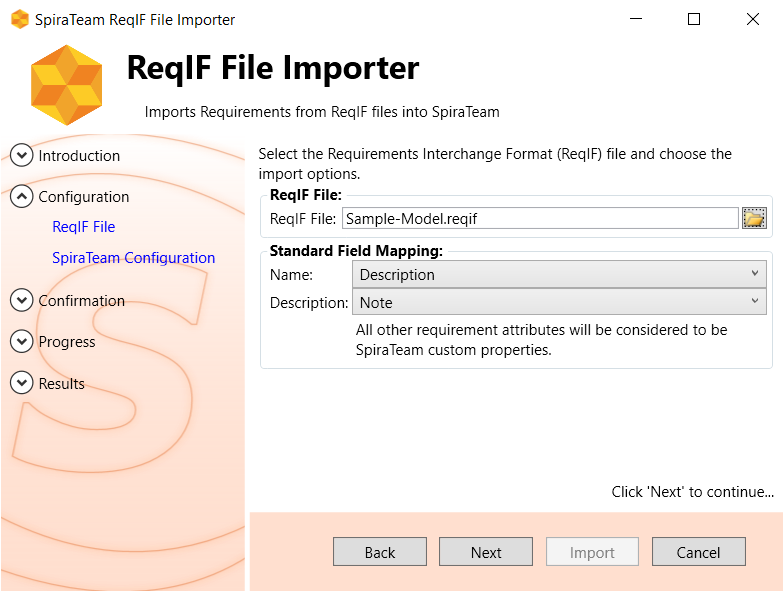
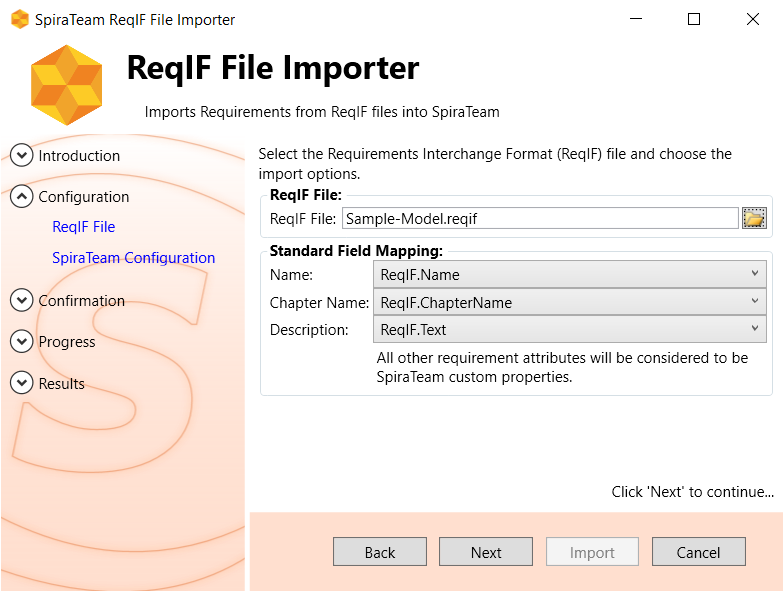
update ReqIF importer documentation to specify mappings better

Changed region(s): [[0.3367, 0.4561, 0.9796, 0.6689]]

diff --git a/docs/Requirements-Management-Integration/Importing-From-ReqIF-Files.md b/docs/Requirements-Management-Integration/Importing-From-ReqIF-Files.md
@@ -39,6 +39,13 @@ want to use for importing.
 model to map to the Name and Description fields in SpiraTeam. Any
 other fields will be imported as custom properties.**
 
+The field mappings will depend on the tool you are importing from. The default values are:
+- **Name:** ReqIf.Name
+- **Chapter Name:** ReqIf.ChapterName
+- **Description:** ReqIf.Text
+
+*See the appendix for how Rational DOORS and Rational Requirements Composer ReqIF Files Work*
+
 Once the file is selected, and the name/description attributes mapped,
 click *Next* to continue to the screen where
 you enter your SpiraTeam project information:
@@ -100,3 +107,34 @@ In addition, the importer will create the necessary custom properties as needed 
 ![](img/ReqIF-9.png)
 
 If you run the same import twice, the importer will create a new requirements hierarchy each time, but it will reuse the existing custom properties if they are already defined in the SpiraTeam product.
+
+## Appendix A: IBM Rational ReqIF Format Notes
+
+### IBM Rational DOORS
+
+In the ReqIF files produced by IBM Rational DOORS, typically each Specification has its own type and only contains Items of a single type.
+
+Because the association between specification and item type is only defined indirectly via:Specification > > SpecHierarchy > SpecObject > SpecObjectType, the item type of an empty specification is undefined, and will be listed under the non-exclusive/shared item types.
+
+DOORS requirements also have (along with lots of other attributes), each a
+- `ReqIF.ChapterName`
+- `ReqIF.Name`
+- `ReqIF.Text`
+
+But whether the attribute actually has a value, depends upon the type of the requirement:
+- A DOORS Heading has a value for the `ReqIF.ChapterName`, but `ReqIF.Name` and `ReqIF.Text` are typically empty.
+- Non-Heading types, for example requirement have a value for `ReqIF.Text`, but both, `ReqIF.ChapterName` and `ReqIF.Name` are typically empty.
+
+### IBM Rational DOORS Next Gen / Requirements Composer
+
+In ReqIF files produced by IBM Rational Requirements Composer (aka DOORS Next Generation), Specifications typically contain items of different types, *for example,. Heading, Information, Requirement etc.*
+
+Because all these items are mapped to the same target tracker, each item type must have a unique set of qualifiers, to identify items of this type in the tracker. *For example, Heading items are those items in the target tracker, where Type == Folder*
+
+Specifications can also refer to (config) items, that are not part of the Specification itself, *for example Actor.*
+
+These separate Item Types should typically be mapped to appropriate config item trackers, for example, Actor.
+
+In IBM Rational Requirements, all item types have a `ReqIF.Name` and a `ReqIF.Text`, that should be mapped to Spira `Name` and `Description`.
+
+The item type Heading also has a `ReqIF.ChapterName`, but the value of this attribute is the same as `ReqIF.Name`, so it can be safely ignored.
